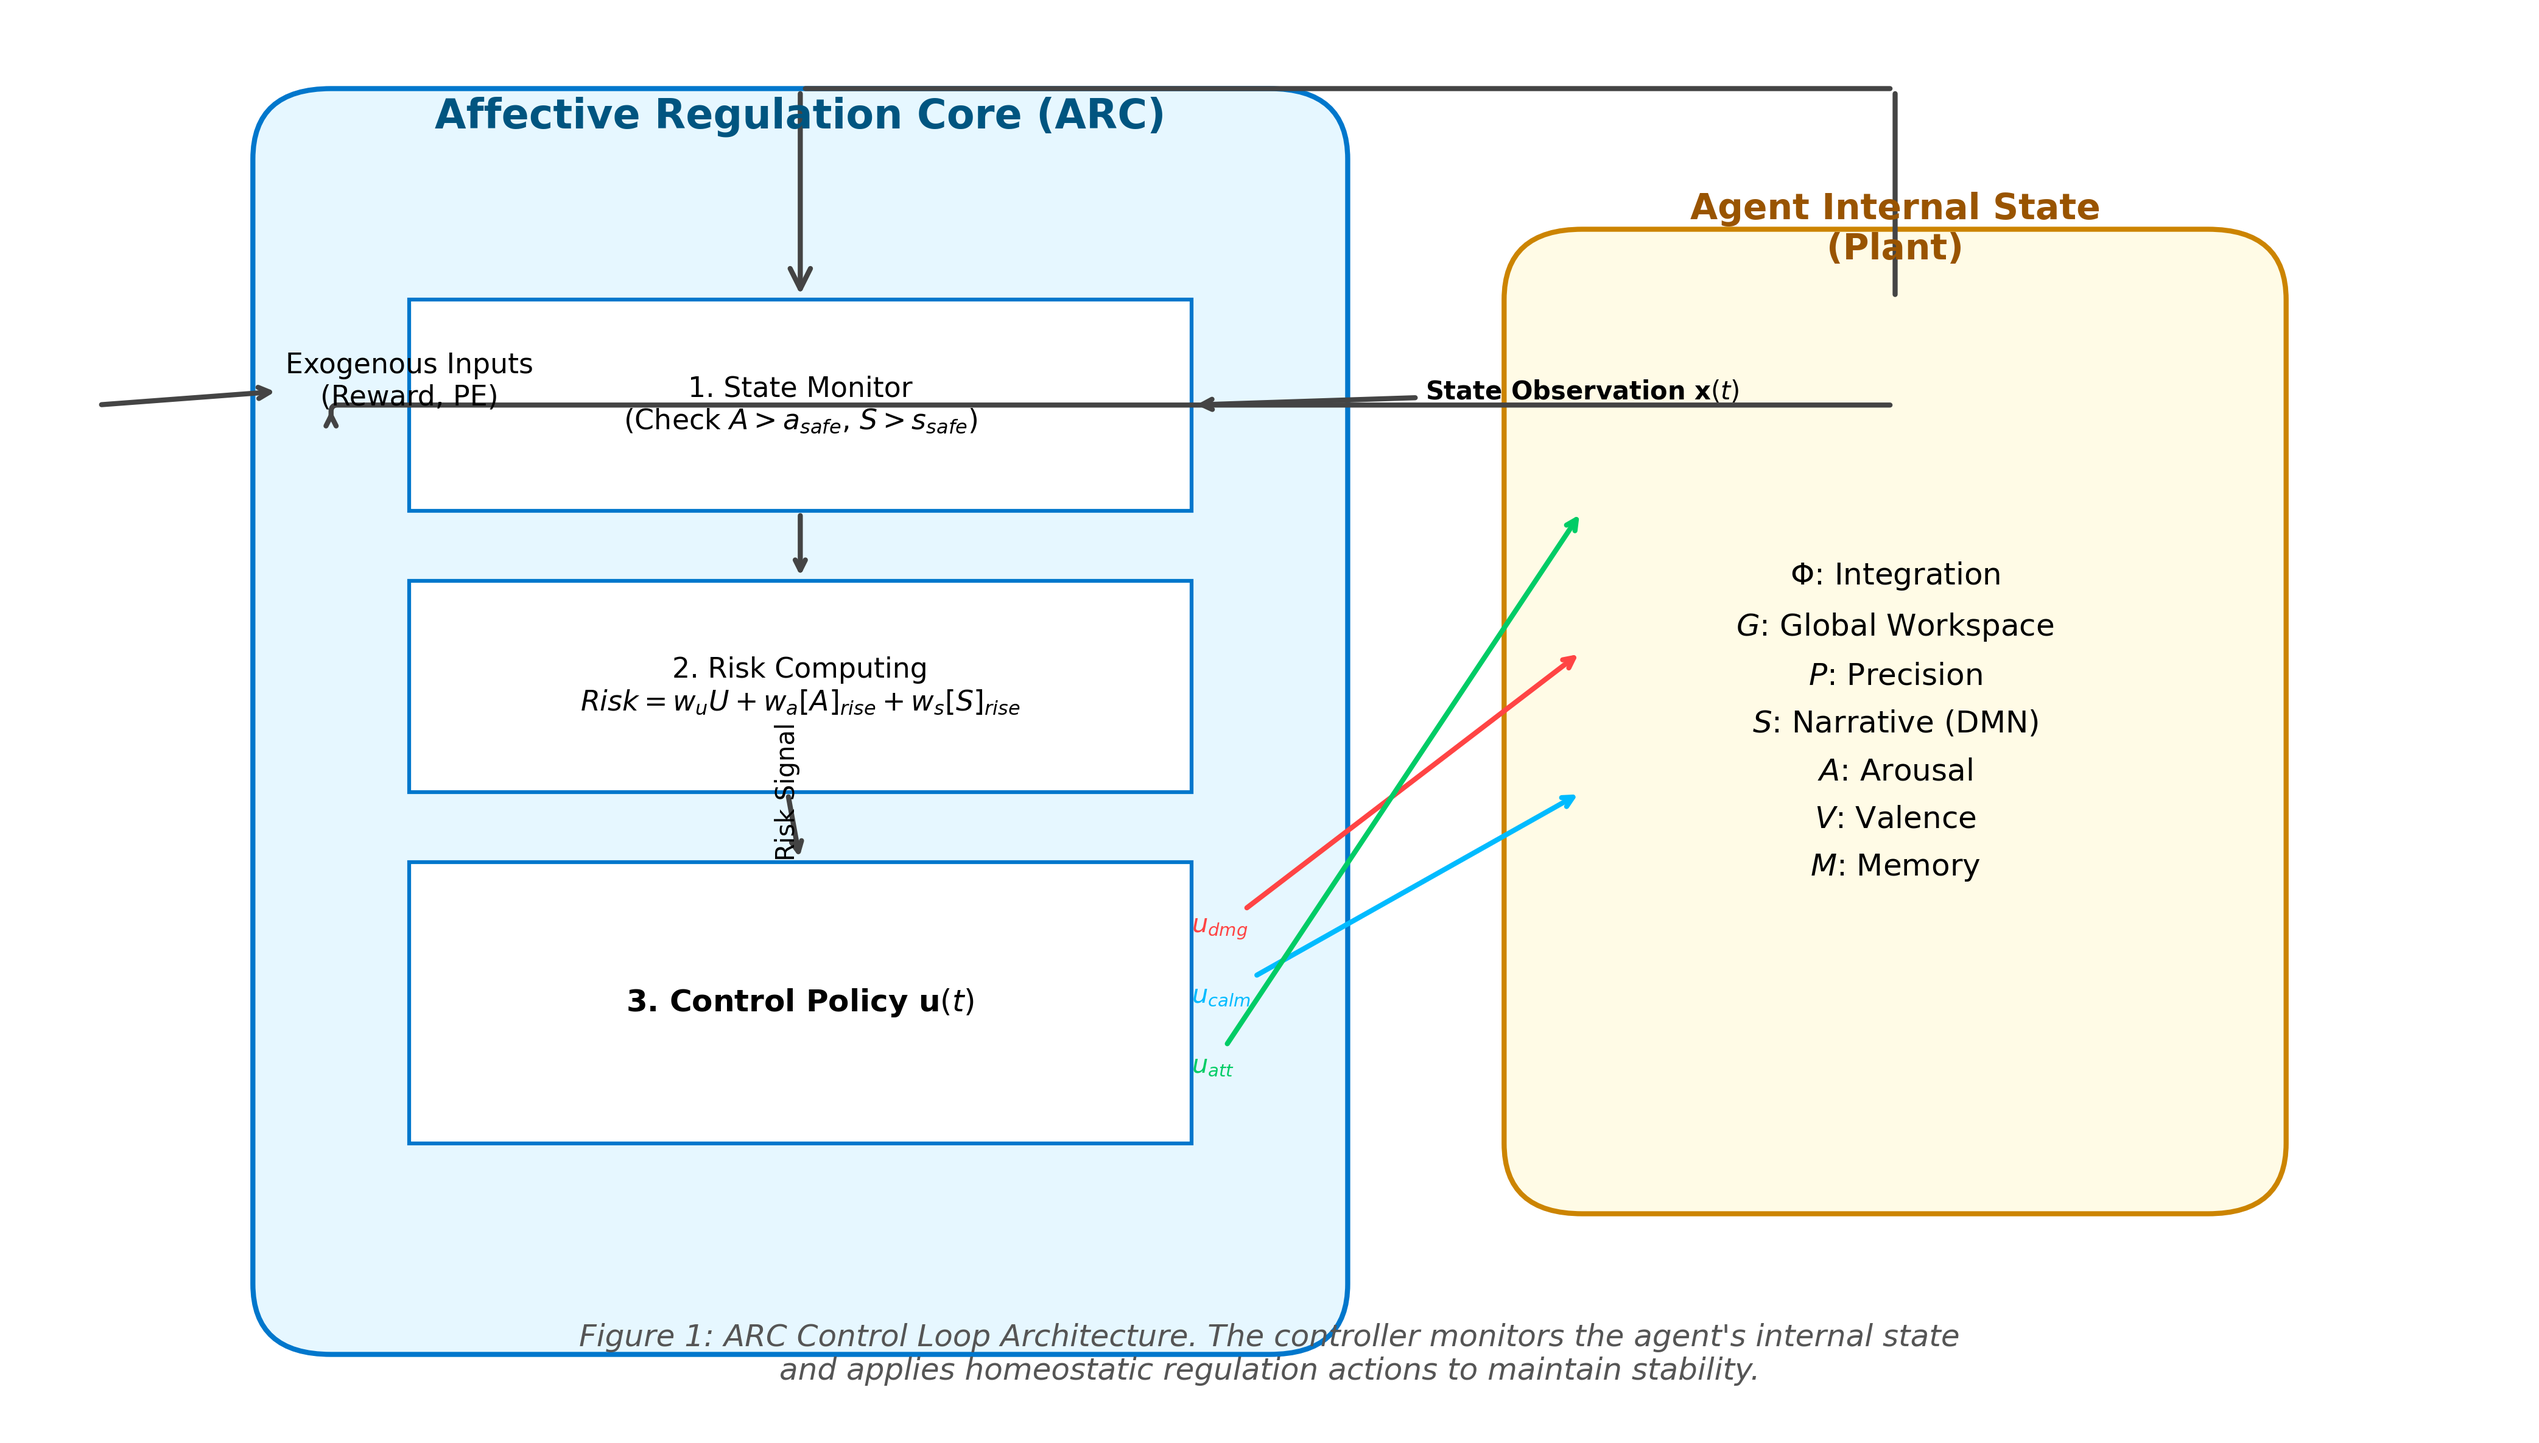
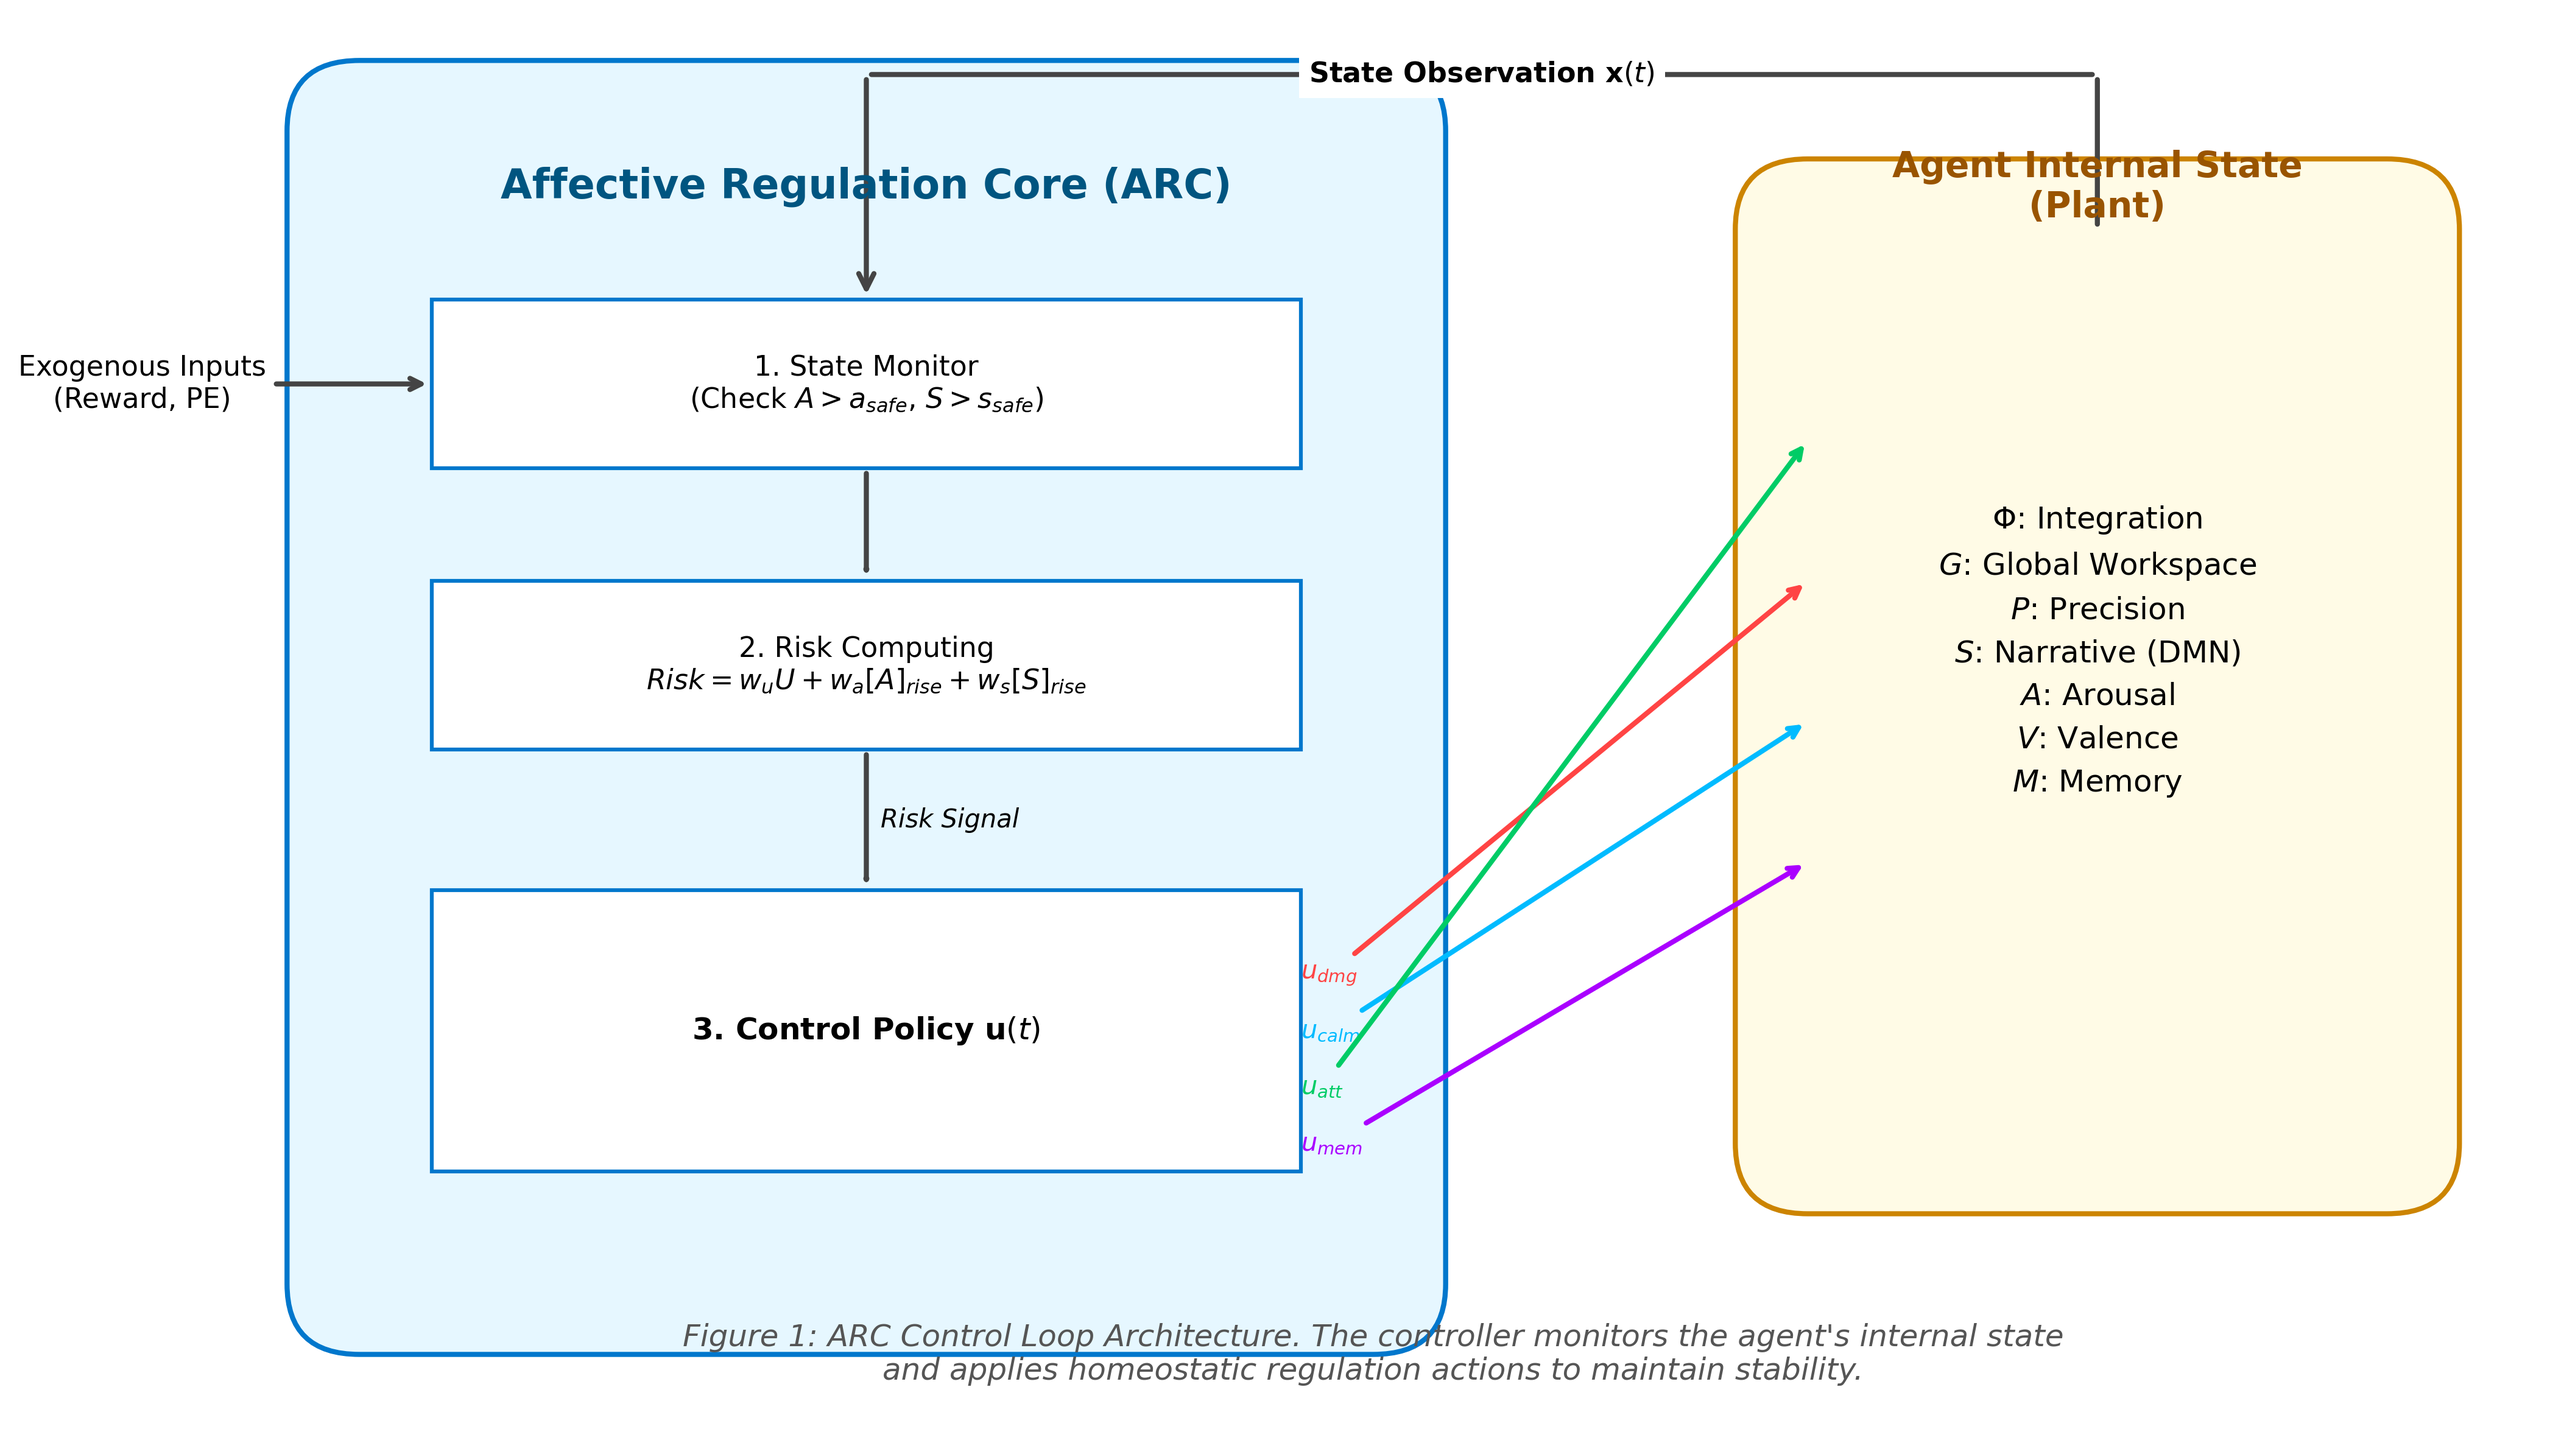
Fix visual overlaps in ARC v1 Control Law diagram

Changed region(s): [[0.0, 0.0312, 0.9664, 0.9679], [0.2494, 0.6869, 0.4053, 0.7181]]

diff --git a/visualizations/generate_control_law.py b/visualizations/generate_control_law.py
@@ -1,0 +1,90 @@
+import matplotlib.pyplot as plt
+import matplotlib.patches as patches
+import argparse
+
+def create_control_law_diagram(output_path):
+    fig, ax = plt.subplots(figsize=(16, 8), dpi=300)
+    ax.set_xlim(0, 20)
+    ax.set_ylim(0, 10)
+    ax.axis('off')
+    
+    # Styles
+    box_style = dict(boxstyle='round,pad=1', facecolor='#e0f7fa', edgecolor='#006064', linewidth=2)
+    saturate_style = dict(boxstyle='round,pad=0.5', facecolor='#b2ebf2', edgecolor='#006064', linewidth=2)
+    action_style = dict(boxstyle='round,pad=1', facecolor='#e1f5fe', edgecolor='#01579b', linewidth=2)
+    
+    # 1. INPUTS Box (Left)
+    input_box = patches.FancyBboxPatch((1, 1), 4, 8, **box_style)
+    ax.add_patch(input_box)
+    
+    ax.text(3, 8, "Inputs", ha='center', va='center', fontsize=16, fontweight='bold', color='#006064')
+    input_text = (
+        "From internal state x(t):\n"
+        "  U   (uncertainty)\n"
+        "  A   (arousal)\n"
+        "  S   (narrative)\n\n"
+        "Safety thresholds:\n"
+        "  a_safe, s_safe"
+    )
+    ax.text(3, 5, input_text, ha='center', va='center', fontsize=12, family='monospace')
+
+    # Arrow 1: Inputs -> Risk
+    ax.annotate("", xy=(6.5, 5), xytext=(5, 5), arrowprops=dict(arrowstyle='->', lw=2, color='#333333'))
+
+    # 2. COMPUTE RISK Box (Middle)
+    risk_box = patches.FancyBboxPatch((6.5, 1), 5, 8, **box_style)
+    ax.add_patch(risk_box)
+    
+    ax.text(9, 8, "Compute risk(t)", ha='center', va='center', fontsize=16, fontweight='bold', color='#006064')
+    risk_eq = (
+        r"risk = w_U * U" + "\n" +
+        r"     + w_A * [A - a_safe]^+" + "\n" +
+        r"     + w_S * [S - s_safe]^+" + "\n\n" +
+        r"[x]^+ = max(0, x)"
+    )
+    ax.text(9, 5, risk_eq, ha='center', va='center', fontsize=12, family='monospace')
+
+    # Arrow 2: Risk -> Saturate
+    ax.annotate("", xy=(12.5, 5), xytext=(11.5, 5), arrowprops=dict(arrowstyle='->', lw=2, color='#333333'))
+
+    # 3. SATURATE Box (Middle-Right, smaller)
+    # Fixed spacing: moved to x=12.5
+    sat_box = patches.FancyBboxPatch((12.5, 3.5), 2.5, 3, **saturate_style)
+    ax.add_patch(sat_box)
+    
+    ax.text(13.75, 5.5, "Saturate", ha='center', va='center', fontsize=14, fontweight='bold', color='#006064')
+    ax.text(13.75, 4.5, "clip(risk, 0, 1)", ha='center', va='center', fontsize=11, family='monospace')
+
+    # Arrow 3: Saturate -> Control Actions
+    ax.annotate("", xy=(16, 5), xytext=(15, 5), arrowprops=dict(arrowstyle='->', lw=2, color='#333333'))
+
+    # 4. CONTROL ACTIONS Box (Right)
+    # Fixed spacing: moved to x=16
+    actions_box = patches.FancyBboxPatch((16, 1), 3.5, 8, **action_style)
+    ax.add_patch(actions_box)
+    
+    ax.text(17.75, 8, "Control Actions u(t)", ha='center', va='center', fontsize=14, fontweight='bold', color='#01579b')
+    
+    actions_text = (
+        r"$u_{dmg} = \min(1, k_{dmg} \cdot risk)$" + "\n\n" +
+        r"$u_{att} = \min(1, k_{att} \cdot U \cdot (1 - [A]_{rise}))$" + "\n\n" +
+        r"$u_{mem} = 1 - \min(1, k_{mem} \cdot risk)$" + "\n\n" +
+        r"$u_{calm} = \min(1, k_{calm} \cdot [A]_{rise})$" + "\n\n" +
+        r"$u_{reapp} = \min(1, k_{reapp} \cdot U \cdot (1-risk))$"
+    )
+    ax.text(17.75, 4.5, actions_text, ha='center', va='center', fontsize=10)
+
+    # Title
+    ax.text(10, 9.5, "ARC v1: Proportional Risk Controller (Control Law Overview)", 
+            ha='center', va='center', fontsize=18, fontweight='bold', color='#333333')
+
+    plt.tight_layout()
+    plt.savefig(output_path, dpi=300, bbox_inches='tight')
+    print(f"Saved control law diagram to {output_path}")
+
+if __name__ == "__main__":
+    parser = argparse.ArgumentParser()
+    parser.add_argument("--output", default="figures_controllers/fig_arc_v1_controller.png")
+    args = parser.parse_args()
+    
+    create_control_law_diagram(args.output)
